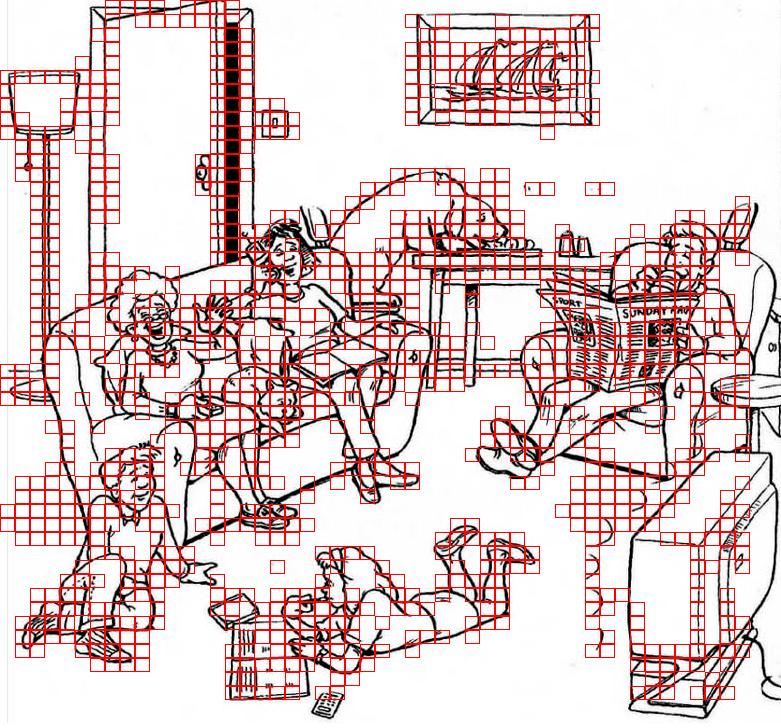
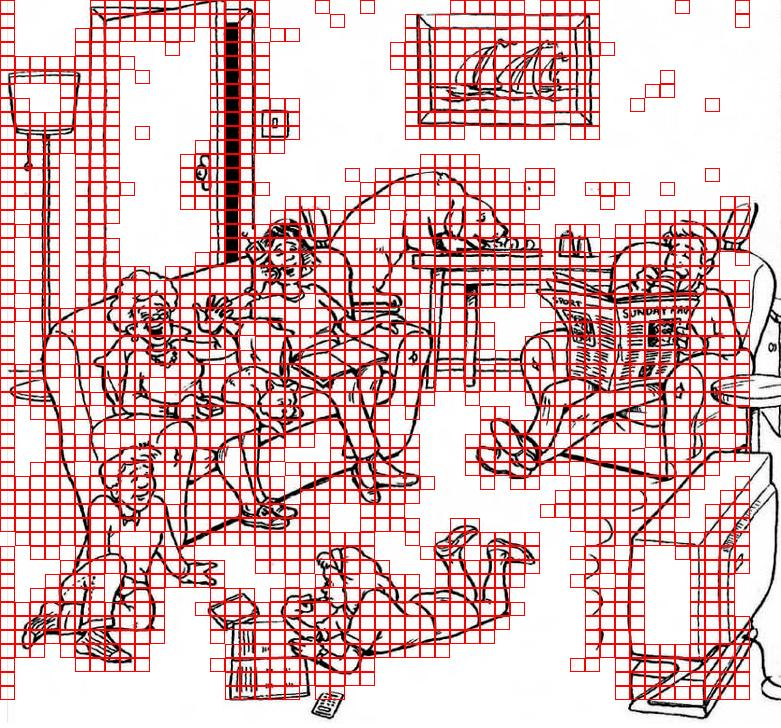
Signed-off-by: Guillermo Facundo Colunga <colunga91@gmail.com>

diff --git a/ImageComparator/com/guille/images/comparator/ImageCompare.java b/ImageComparator/com/guille/images/comparator/ImageCompare.java
@@ -14,190 +14,191 @@ import javax.swing.GrayFilter;
 
 public class ImageCompare {
 
-	protected BufferedImage img1 = null;
-	protected BufferedImage img2 = null;
-	protected BufferedImage imgc = null;
-	protected int comparex = 0;
-	protected int comparey = 0;
-	protected int factorA = 0;
-	protected int factorD = 10;
-	protected boolean match = false;
-	protected int debugMode = 0; // 1: textual indication of change, 2:
-									// difference of factors
-	
-	public static final String PATH_TO_SAMPLES = "com/guille/images/samples/";
-	public static final String PATH_TO_RESULTS = "com/guille/images/results/";
-	private String nImg1, nImg2;
+    protected BufferedImage img1 = null;
+    protected BufferedImage img2 = null;
+    protected BufferedImage imgc = null;
+    protected int comparex = 0;
+    protected int comparey = 0;
+    protected int factorA = 0;
+    protected int factorD = 10;
+    protected boolean match = false;
+    protected int debugMode = 0; // 1: textual indication of change, 2:
+				 // difference of factors
 
-	/**
-	 * Constructor using the names of the samples
-	 * @param sample1 is the first image to be compared.
-	 * @param sample2 is the second image to be compared.
-	 */
-	public ImageCompare(String sample1, String sample2) {
-		this(loadJPG(PATH_TO_SAMPLES + sample1), loadJPG(PATH_TO_SAMPLES + sample2));
-		this.nImg1 = sample1.split("\\.")[0];
-		this.nImg2 = sample2.split("\\.")[0];
-	}
-	
-	public String getNameImg1() {
-		return this.nImg1;
-	}
-	
-	public String getNameImg2() {
-		return this.nImg2;
-	}
-	public ImageCompare(Image img1, Image img2) {
-		this(imageToBufferedImage(img1), imageToBufferedImage(img2));
-	}
- 
-	// constructor 3. use buffered images. all roads lead to the same place. this place.
-	public ImageCompare(BufferedImage img1, BufferedImage img2) {
-		this.img1 = img1;
-		this.img2 = img2;
-		autoSetParameters();
-	}
+    public static final String PATH_TO_SAMPLES = "com/guille/images/samples/";
+    public static final String PATH_TO_RESULTS = "com/guille/images/results/";
+    private String nImg1, nImg2;
 
-	// like this to perhaps be upgraded to something more heuristic in the future.
-	protected void autoSetParameters() {
-		comparex = 10;
-		comparey = 10;
-		factorA = 10;
-		factorD = 10;
-	}
-	
-	// set the parameters for use during change detection.
-	public void setParameters(int x, int y, int factorA, int factorD) {
-		this.comparex = x;
-		this.comparey = y;
-		this.factorA = factorA;
-		this.factorD = factorD;
-	}
-	
-	// want to see some stuff in the console as the comparison is happening?
-	public void setDebugMode(int m) {
-		this.debugMode = m;
-	}
-	
-	// compare the two images in this object.
-	public void compare() {
-		// setup change display image
-		imgc = imageToBufferedImage(img2);
-		Graphics2D gc = imgc.createGraphics();
-		gc.setColor(Color.RED);
-		// convert to gray images.
-		img1 = imageToBufferedImage(GrayFilter.createDisabledImage(img1));
-		img2 = imageToBufferedImage(GrayFilter.createDisabledImage(img2));
-		// how big are each section
-		int blocksx = (int)(img1.getWidth() / comparex);
-		int blocksy = (int)(img1.getHeight() / comparey);
-		// set to a match by default, if a change is found then flag non-match
-		this.match = true;
-		// loop through whole image and compare individual blocks of images
-		for (int y = 0; y < comparey; y++) {
-			if (debugMode > 0) System.out.print("|");
-			for (int x = 0; x < comparex; x++) {
-				int b1 = getAverageBrightness(img1.getSubimage(x*blocksx, y*blocksy, blocksx - 1, blocksy - 1));
-				int b2 = getAverageBrightness(img2.getSubimage(x*blocksx, y*blocksy, blocksx - 1, blocksy - 1));
-				int diff = Math.abs(b1 - b2);
-				if (diff > factorA) { // the difference in a certain region has passed the threshold value of factorA
-					// draw an indicator on the change image to show where change was detected.
-					gc.drawRect(x*blocksx, y*blocksy, blocksx - 1, blocksy - 1);
-					this.match = false;
-				}
-				if (debugMode == 1) System.out.print((diff > factorA ? "X" : " "));
-				if (debugMode == 2) System.out.print(diff + (x < comparex - 1 ? "," : ""));
-			}
-			if (debugMode > 0) System.out.println("|");
+    /**
+     * Constructor using the names of the samples
+     * 
+     * @param sample1
+     *            is the first image to be compared.
+     * @param sample2
+     *            is the second image to be compared.
+     */
+    public ImageCompare(String sample1, String sample2) {
+	this(loadJPG(PATH_TO_SAMPLES + sample1), loadJPG(PATH_TO_SAMPLES + sample2));
+	this.nImg1 = sample1.split("\\.")[0];
+	this.nImg2 = sample2.split("\\.")[0];
+    }
+
+    public String getNameImg1() {
+	return this.nImg1;
+    }
+
+    public String getNameImg2() {
+	return this.nImg2;
+    }
+
+    public ImageCompare(Image img1, Image img2) {
+	this(imageToBufferedImage(img1), imageToBufferedImage(img2));
+    }
+
+    // constructor 3. use buffered images. all roads lead to the same place.
+    // this place.
+    public ImageCompare(BufferedImage img1, BufferedImage img2) {
+	this.img1 = img1;
+	this.img2 = img2;
+	autoSetParameters();
+    }
+
+    // like this to perhaps be upgraded to something more heuristic in the
+    // future.
+    protected void autoSetParameters() {
+	comparex = 10;
+	comparey = 10;
+	factorA = 10;
+	factorD = 10;
+    }
+
+    // set the parameters for use during change detection.
+    public void setParameters(int x, int y, int factorA, int factorD) {
+	this.comparex = x;
+	this.comparey = y;
+	this.factorA = factorA;
+	this.factorD = factorD;
+    }
+
+    // want to see some stuff in the console as the comparison is happening?
+    public void setDebugMode(int m) {
+	this.debugMode = m;
+    }
+
+    // compare the two images in this object.
+    public void compare() {
+	// setup change display image
+	imgc = imageToBufferedImage(img2);
+	Graphics2D gc = imgc.createGraphics();
+	gc.setColor(Color.RED);
+	// convert to gray images.
+	img1 = imageToBufferedImage(GrayFilter.createDisabledImage(img1));
+	img2 = imageToBufferedImage(GrayFilter.createDisabledImage(img2));
+	// how big are each section
+	int blocksx = (int) (img1.getWidth() / comparex);
+	int blocksy = (int) (img1.getHeight() / comparey);
+	// set to a match by default, if a change is found then flag non-match
+	this.match = true;
+	// loop through whole image and compare individual blocks of images
+	for (int y = 0; y < comparey; y++) {
+	    if (debugMode > 0)
+		System.out.print("|");
+	    for (int x = 0; x < comparex; x++) {
+		double b1 = getAverageBrightness(img1.getSubimage(x * blocksx, y * blocksy, blocksx - 1, blocksy - 1));
+		double b2 = getAverageBrightness(img2.getSubimage(x * blocksx, y * blocksy, blocksx - 1, blocksy - 1));
+		double diff = Math.abs(b1 - b2);
+		if (diff > factorA) { // the difference in a certain region has
+				      // passed the threshold value of factorA
+		    // draw an indicator on the change image to show where
+		    // change was detected.
+		    gc.drawRect(x * blocksx, y * blocksy, blocksx - 1, blocksy - 1);
+		    this.match = false;
 		}
+		if (debugMode == 1)
+		    System.out.print((diff > factorA ? "X" : " "));
+		if (debugMode == 2)
+		    System.out.print(diff + (x < comparex - 1 ? " " : ""));
+	    }
+	    if (debugMode > 0)
+		System.out.println("|");
 	}
-	
-	// return the image that indicates the regions where changes where detected.
-	public BufferedImage getChangeIndicator() {
-		return imgc;
-	}
-	
-	// returns a value specifying some kind of average brightness in the image.
-	protected int getAverageBrightness(BufferedImage img) {
-		Raster r = img.getData();
-		int total = 0;
-		for (int y = 0; y < r.getHeight(); y++) {
-			for (int x = 0; x < r.getWidth(); x++) {
-				total += r.getSample(r.getMinX() + x, r.getMinY() + y, 0);
-			}
-		}
-		return (int)(total / ((r.getWidth()/factorD)*(r.getHeight()/factorD)));
-	}
-	
+    }
 
-	// returns true if image pair is considered a match
-	public boolean match() {
-		return this.match;
-	}
+    // return the image that indicates the regions where changes where detected.
+    public BufferedImage getChangeIndicator() {
+	return imgc;
+    }
 
-	// buffered images are just better.
-	protected static BufferedImage imageToBufferedImage(Image img) {
-		BufferedImage bi = new BufferedImage(img.getWidth(null), img.getHeight(null), BufferedImage.TYPE_INT_RGB);
-		Graphics2D g2 = bi.createGraphics();
-		g2.drawImage(img, null, null);
-		return bi;
+    // returns a value specifying some kind of average brightness in the image.
+    protected double getAverageBrightness(BufferedImage img) {
+	Raster r = img.getData();
+	int total = 0;
+	for (int y = 0; y < r.getHeight(); y++) {
+	    for (int x = 0; x < r.getWidth(); x++) {
+		total += r.getSample(r.getMinX() + x, r.getMinY() + y, 0);
+	    }
 	}
+	return (double) (total / ((r.getWidth() / factorD) * (r.getHeight() / factorD)));
+    }
 
-	// write a buffered image to a jpeg file.
-	protected static void saveJPG(Image img, String filename) {
-		BufferedImage bi = imageToBufferedImage(img);
-		File out = null;
-		out = new File(filename);
-		try {
-			ImageIO.write(bi, "jpg", out);
-		} catch (IOException e) {
-			e.printStackTrace();
-		}
-		// JPEGImageEncoder encoder = JPEGCodec.createJPEGEncoder(out);
-		// JPEGEncodeParam param = encoder.getDefaultJPEGEncodeParam(bi);
-		// param.setQuality(0.8f,false);
-		// encoder.setJPEGEncodeParam(param);
-		// try {
-		// encoder.encode(bi);
-		// out.close();
-		// } catch (java.io.IOException io) {
-		// System.out.println("IOException");
-		// }
-	}
+    // returns true if image pair is considered a match
+    public boolean match() {
+	return this.match;
+    }
 
-	// read a jpeg file into a buffered image
-	protected static Image loadJPG(String filename) {
-		File in = null;
-		in = new File(filename);
-		BufferedImage bi = null;
-		try {
-			bi = ImageIO.read(in);
-		} catch (IOException e) {
-			// TODO Auto-generated catch block
-			e.printStackTrace();
-		}
-		return bi;
+    // buffered images are just better.
+    protected static BufferedImage imageToBufferedImage(Image img) {
+	BufferedImage bi = new BufferedImage(img.getWidth(null), img.getHeight(null), BufferedImage.TYPE_INT_RGB);
+	Graphics2D g2 = bi.createGraphics();
+	g2.drawImage(img, null, null);
+	return bi;
+    }
+
+    // write a buffered image to a jpeg file.
+    protected static void saveJPG(Image img, String filename) {
+	BufferedImage bi = imageToBufferedImage(img);
+	File out = null;
+	out = new File(filename);
+	try {
+	    ImageIO.write(bi, "jpg", out);
+	} catch (IOException e) {
+	    e.printStackTrace();
 	}
-	
-	public void displayResult() {
-		File f = new File(ImageCompare.PATH_TO_RESULTS + this.getNameImg1() + "&" + this.getNameImg2() + ".jpg");
-		Desktop dt = Desktop.getDesktop();
-		try {
-			dt.open(f);
-		} catch (IOException e) {
-			System.err.println("Error while displaying the result picture");
-			e.printStackTrace();
-		}
+    }
+
+    // read a jpeg file into a buffered image
+    protected static Image loadJPG(String filename) {
+	File in = null;
+	in = new File(filename);
+	BufferedImage bi = null;
+	try {
+	    bi = ImageIO.read(in);
+	} catch (IOException e) {
+	    e.printStackTrace();
 	}
-	
-	@Override
-	public String toString() {
-		return this.nImg1+"&"+this.nImg2+this.img1.getHeight()+this.img2.getWidth()+this.img2.getHeight()+this.img2.getWidth();
+	return bi;
+    }
+
+    public void displayResult() {
+	File f = new File(ImageCompare.PATH_TO_RESULTS + this.getNameImg1() + "&" + this.getNameImg2() + ".jpg");
+	Desktop dt = Desktop.getDesktop();
+	try {
+	    dt.open(f);
+	} catch (IOException e) {
+	    System.err.println("Error while displaying the result picture");
+	    e.printStackTrace();
 	}
-	
-	@Override
-	public int hashCode() {
-		return this.toString().hashCode();
-	}
+    }
+
+    @Override
+    public String toString() {
+	return this.nImg1 + "&" + this.nImg2 + this.img1.getHeight() + this.img2.getWidth() + this.img2.getHeight()
+		+ this.img2.getWidth();
+    }
+
+    @Override
+    public int hashCode() {
+	return this.toString().hashCode();
+    }
 
 }

diff --git a/ImageComparator/com/guille/images/comparator/ImageCompareTest.java b/ImageComparator/com/guille/images/comparator/ImageCompareTest.java
@@ -12,13 +12,13 @@ public class ImageCompareTest {
 	@Test
 	public void basicImageTest() throws IOException {
 		// Create a compare object specifying the 2 images for comparison.
-		ImageCompare ic = new ImageCompare("diferencias4.jpg", "diferencias5.jpg");
+		ImageCompare ic = new ImageCompare("diferencias4.jpg", "diferencias4false.jpg");
 		// Set the comparison parameters.
 		// (num vertical regions, num horizontal regions, sensitivity,
 		// stabilizer)
-		ic.setParameters(50, 50, 1, 250);
+		ic.setParameters(50, 50, 0, 250);
 		// Compare.
-		ic.setDebugMode(0);
+		ic.setDebugMode(2);
 		ic.compare();
 		// Display if these images are considered a match according to our
 		// parameters.
